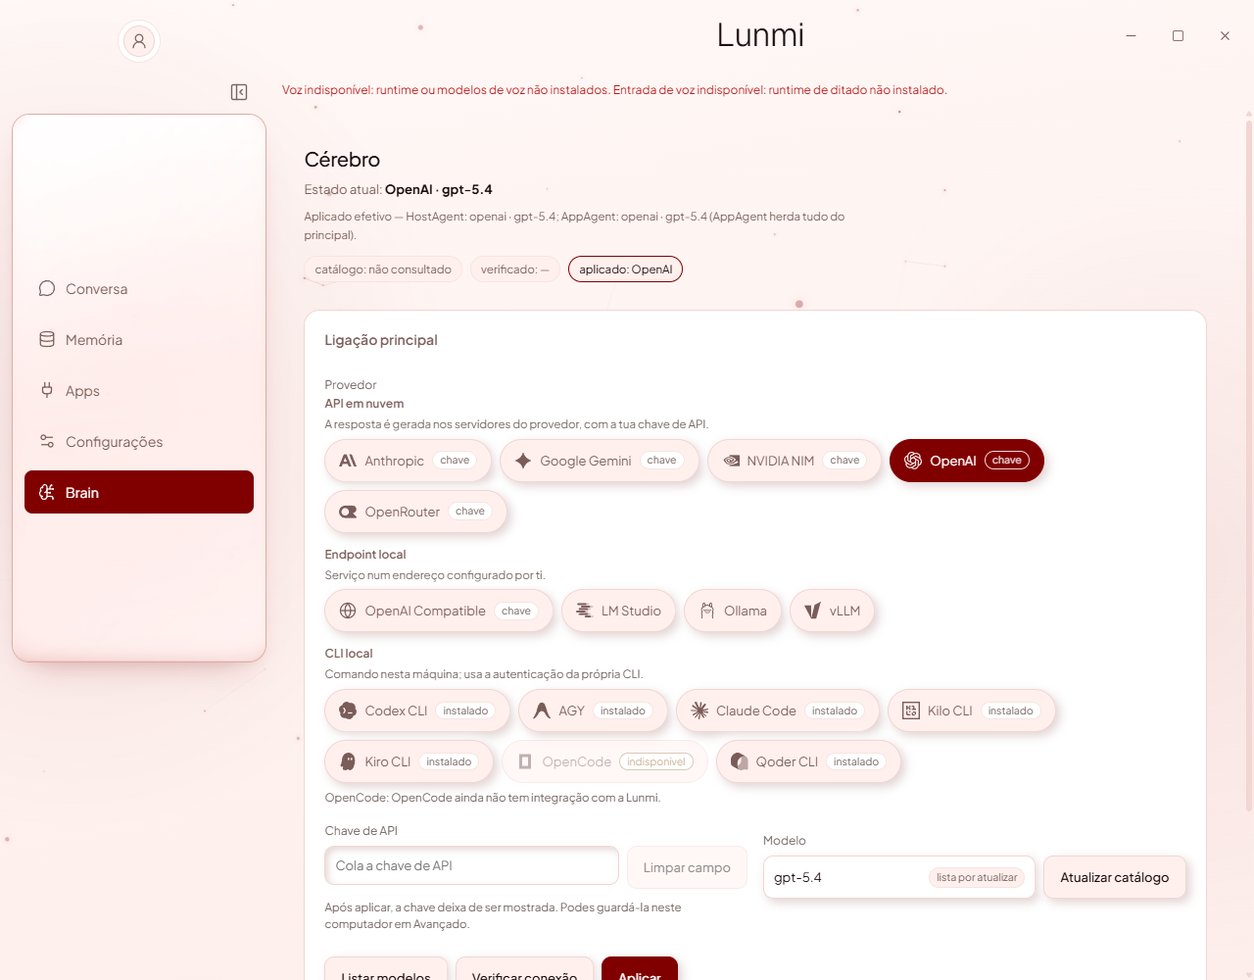
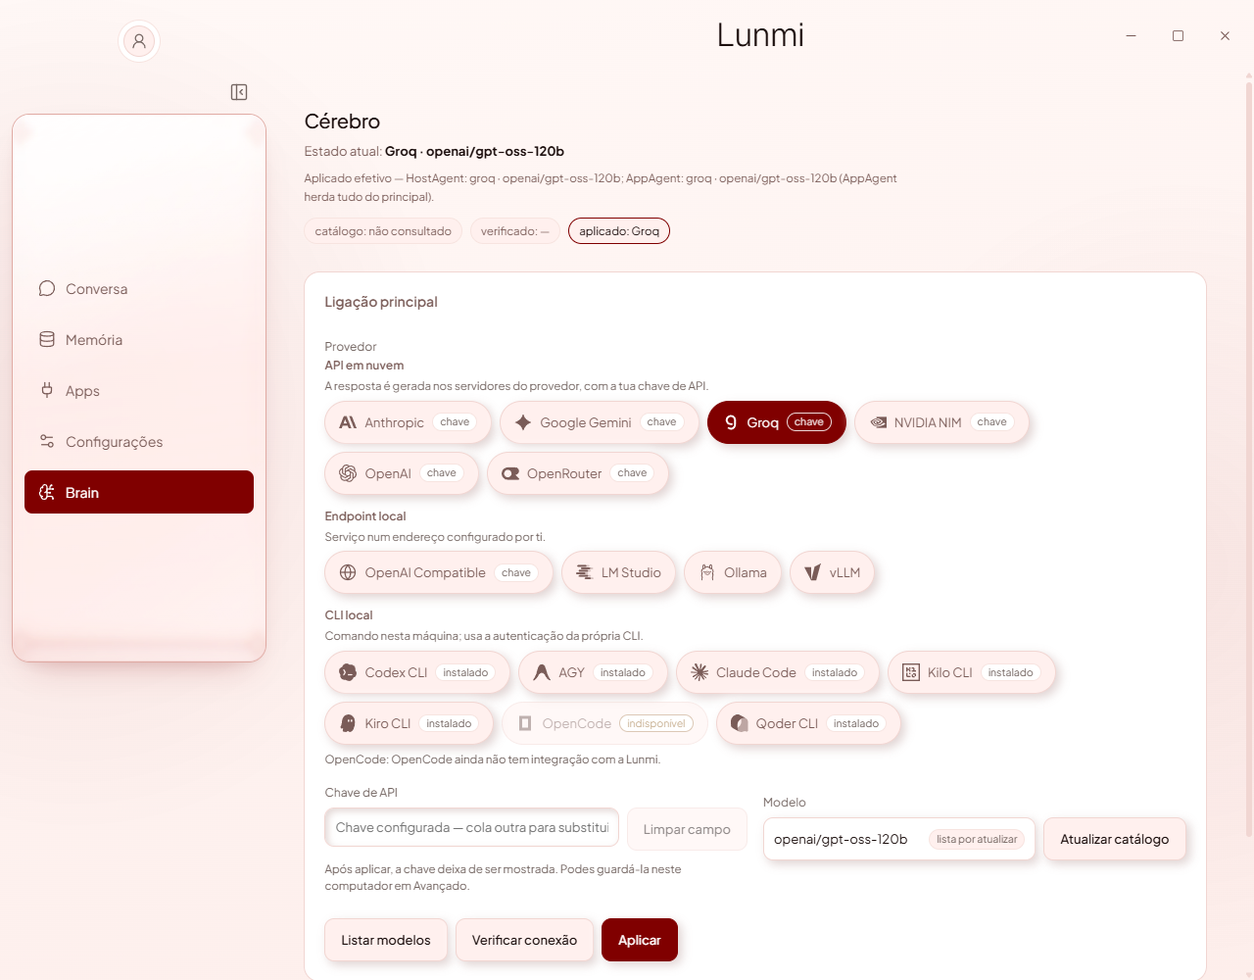
Rewrite README in plainer Portuguese and refresh screenshots
New captures come from the Alpha 6 app with local voice resources, so the
"voz indisponível" banner no longer shows; the Brain shot uses Groq, and an
onboarding shot joins the install steps. The text keeps every command, link
and limit but says each point once, in direct language.

diff --git a/README.md b/README.md
@@ -6,7 +6,7 @@
 
 **Converse, organize suas ideias e execute tarefas no Windows.**
 
-Um assistente de desktop com interface Electron, backend Python e automação assistida pelo Microsoft UFO².
+Assistente de desktop com interface Electron, backend Python e automação pelo Microsoft UFO².
 
 [![Windows](https://img.shields.io/badge/Windows-10%20%2F%2011-5161D8?style=flat-square)](#requisitos)
 [![Python](https://img.shields.io/badge/Python-3.11-3776AB?style=flat-square&logo=python&logoColor=white)](#começar)
@@ -20,54 +20,60 @@ Um assistente de desktop com interface Electron, backend Python e automação as
 </div>
 
 <p align="center">
-  <img src="docs/assets/lunmi-dark.png" width="1100" alt="Lunmi instalada no tema Celestial, com o orb e o ecrã inicial da conversa" />
+  <img src="docs/assets/lunmi-dark.png" width="1100" alt="Tela inicial da conversa da Lunmi no tema Celestial, com o orb" />
 </p>
 
-> **Alpha 6 disponível para testes.** Inclui introdução com Groq ou Kiro, pesquisa web que abre páginas, voz e ditado offline por CPU e atualizações pelo GitHub Releases, com verificação Ed25519 e confirmação antes de reiniciar para instalar. O setup ainda não tem certificado de editor Windows. A automação depende do aplicativo e da verificação disponível. Consulte [a Release](https://github.com/MateusCosta888/Lunmi/releases/tag/v0.1.0-alpha.6) e [os limites de segurança](SECURITY.md).
+> **Alpha 6 em teste.** Esta versão traz uma introdução que liga o Groq ou o Kiro, pesquisa web que lê as páginas, voz e ditado offline e atualização automática pelo GitHub Releases. O instalador ainda não tem certificado de editor do Windows, então o Windows pode avisar na primeira execução. Veja [a Release](https://github.com/MateusCosta888/Lunmi/releases/tag/v0.1.0-alpha.6) e [os limites de segurança](SECURITY.md).
 
 ## Instalar o Alpha 6
 
-1. Baixe o [instalador para Windows 10/11 x64](https://github.com/MateusCosta888/Lunmi/releases/download/v0.1.0-alpha.6/Lunmi-0.1.0-alpha.6-Setup.exe), com cerca de 2,08 GB. Inclui os modelos de voz; a instalação pode demorar vários minutos.
-2. Execute o setup e abra a Lunmi. O Python necessário acompanha o instalador; não precisa instalar Python, Node.js ou Git para usar esta versão.
-3. Na primeira abertura, a introdução ajuda a ligar o Groq (gratuito) ou o Kiro CLI. Em **Brain**, pode escolher outra API, endpoint ou CLI suportado com o seu próprio acesso. Créditos e chaves de IA não estão incluídos. O setup inclui voz e ditado por CPU, sem exigir NVIDIA; a ativação continua opcional.
+1. Baixe o [instalador para Windows 10/11 x64](https://github.com/MateusCosta888/Lunmi/releases/download/v0.1.0-alpha.6/Lunmi-0.1.0-alpha.6-Setup.exe) (cerca de 2,08 GB, com os modelos de voz). A instalação leva alguns minutos.
+2. Execute o instalador e abra a Lunmi. O Python vem junto; você não precisa instalar Python, Node.js nem Git.
+3. Na primeira abertura, a introdução ajuda a ligar um cérebro: o Groq, que é gratuito, ou o Kiro CLI. Depois, em **Brain**, você pode trocar para outra API, endpoint ou CLI com o seu próprio acesso. A Lunmi não inclui créditos nem chaves de IA.
 
-Quem usa o Alpha 3 precisa instalar o Alpha 6 manualmente uma vez. Quem tem o Alpha 4 ou o Alpha 5 recebe esta versão pelo atualizador; a primeira atualização para o Alpha 6 substitui todos os ficheiros e demora mais. Depois, a Lunmi procura novas versões e baixa em segundo plano, aproveitando blocos existentes quando possível. Em **Configurações → Atualizações**, pode procurar manualmente e escolher **Reiniciar e atualizar** quando estiver pronta. Tarefas e operações de voz ativas bloqueiam a instalação; histórico, memória e configurações continuam fora da pasta instalada.
+<p align="center">
+  <img src="docs/assets/lunmi-onboarding.png" width="900" alt="Tela de boas-vindas da introdução da Lunmi, com o botão Começar" />
+</p>
 
-As atualizações chegam quando publicamos uma **Release**. Um envio de código a `main` executa testes; a distribuição exige preparar e publicar uma versão. O modo `run.bat` continua sem auto-update. [Funcionamento, publicação e recuperação →](docs/UPDATES.md)
+Quem tem o Alpha 4 ou o Alpha 5 recebe esta versão pelo atualizador. A primeira atualização para o Alpha 6 troca todos os arquivos e demora mais; as seguintes trocam só o necessário. Quem usa o Alpha 3 precisa instalar o Alpha 6 manualmente uma vez.
+
+A Lunmi procura novas versões e baixa em segundo plano. Para instalar, vá em **Configurações → Atualizações** e escolha **Reiniciar e atualizar**. Uma tarefa ou a voz em andamento bloqueia a instalação. Histórico, memória e configurações ficam fora da pasta do programa e não se perdem.
+
+Uma versão nova só chega quando publicamos uma Release; enviar código para `main` apenas roda os testes. O modo `run.bat` não se atualiza sozinho. [Como funcionam as atualizações](docs/UPDATES.md)
 
 ## O que a Lunmi faz
 
-| Recurso | Comportamento |
+| Recurso | Como funciona |
 | --- | --- |
-| **Chat único** | Responde, pede esclarecimento ou utiliza ferramentas conforme o pedido, mantendo autorização e verificação no backend. |
-| **Resposta progressiva** | Mostra texto incremental nos transportes que oferecem streaming real. Transportes sem essa capacidade entregam a resposta completa. |
-| **Conversas guardadas** | Histórico local separado da memória pessoal; retomar, renomear, apagar e conversar temporariamente. |
-| **Pesquisa web** | Pesquisa configurável com fontes e metadados; disponibilidade e profundidade dependem do motor e do Brain. |
-| **Brain configurável** | Usa APIs, endpoints compatíveis e CLIs locais suportados. O catálogo depende do provedor conectado. |
-| **Memória local V2** | Documento editável com Guardar/Desfazer, aprendizagem opcional e gestão detalhada de episódios, propostas legadas e importação/exportação. |
-| **Gmail via Composio** | Liga a conta Composio do próprio utilizador para pesquisar, ler e preparar emails. Envio exige uma prévia com aprovação manual. Integração experimental. |
-| **Perfil local** | Nome de tratamento e foto, editáveis na própria janela. A foto não vai ao Brain. |
-| **Anexos de texto** | Até 4 arquivos UTF-8, 32 KiB por arquivo e 64 KiB no total; o turno com anexos não autoriza ações. |
-| **Controle do usuário** | Confirmações, perguntas, cancelamento e indicação de falhas fazem parte da execução. |
-| **Interface adaptável** | Temas Celestial, Claro suave e Red Velvet, laterais com vidro, navegação recolhível e compositor multilinha com seleção de modelo. |
-| **Lunmi Node** | Ao fechar a principal, pode continuar na bandeja com um Node num canto superior. Abre um mini chat sincronizado e mostra atividade/atenção. Fica passivo durante tarefas para não intercetar cliques. |
-| **Voz e ditado locais** | Recursos de voz e ditado por CPU incluídos no setup completo. Ativação opcional e microfone acionado pelo utilizador; sem escuta contínua. |
-| **GalaxyOrb** | Presença visual persistente na conversa principal, preservada quando chegam mensagens. |
-| **Atualizações pelo GitHub** | A partir do Alpha 4 instalado: download automático, verificação de assinatura e instalação após confirmação de reinício. |
+| Chat único | Responde, pergunta quando o pedido não está claro ou usa ferramentas. A autorização e a verificação ficam no backend. |
+| Resposta progressiva | O texto aparece aos poucos quando o provedor oferece streaming; nos outros, chega inteiro. |
+| Conversas salvas | Histórico local, separado da memória pessoal. Dá para retomar, renomear, apagar ou abrir uma conversa temporária. |
+| Pesquisa web | O cérebro decide quando pesquisar, lê as páginas e cita as fontes. Perguntas de continuação usam o contexto da conversa. |
+| Brain configurável | APIs, endpoints compatíveis e CLIs locais. Os modelos disponíveis dependem do provedor. |
+| Memória local | Um texto livre que você edita, com Salvar e Desfazer, aprendizado opcional e importação e exportação. |
+| Gmail via Composio | Pesquisa, lê e prepara emails com a sua conta Composio. Enviar exige aprovar uma prévia. Experimental. |
+| Perfil local | Nome e foto, editáveis na janela. A foto não vai para o Brain. |
+| Anexos de texto | Até 4 arquivos UTF-8, 32 KiB cada e 64 KiB no total. Um pedido com anexos não autoriza ações. |
+| Controle do usuário | Confirmações, perguntas, cancelamento e avisos de falha fazem parte de cada tarefa. |
+| Temas | Celestial, Claro suave e Red Velvet. A opção Reduzir animações fica em Configurações → Aparência. |
+| Lunmi Node | Ao fechar a janela principal, a Lunmi pode continuar na bandeja com um Node num canto da tela, com mini chat, estado das tarefas e controle de mídia do Windows (tocar, pausar, anterior, próxima). |
+| Voz e ditado locais | Voz e ditado pela CPU, incluídos no instalador. Ficam desligados até você ativar; o microfone só abre quando você pede. |
+| GalaxyOrb | O orb fica na conversa principal e continua lá quando chegam mensagens. |
+| Atualizações pelo GitHub | Desde o Alpha 4: download automático, verificação da assinatura e instalação quando você confirma. |
 
-A execução combina caminhos determinísticos para tarefas reconhecidas e agentes UFO² para as demais. Um despacho de ação não prova sucesso: confira o resultado e a evidência apresentados.
+Tarefas conhecidas seguem caminhos fixos; as outras passam pelos agentes do UFO². Uma ação enviada não prova que deu certo: confira o resultado e a evidência que a Lunmi mostra.
 
 ## Requisitos
 
-Os requisitos abaixo são para executar pelo código-fonte. O instalador alpha inclui o runtime Python e as dependências; cada testador configura o seu próprio Brain.
+Para usar o instalador, basta o Windows. Os requisitos abaixo são para rodar pelo código-fonte:
 
-- **Windows 10 ou 11**, com a sessão de desktop aberta e desbloqueada.
-- **Python 3.11**, com Tkinter para o frontend legado opcional.
-- **Node.js 24 LTS**, npm e Git disponíveis no terminal.
-- Internet na instalação para baixar dependências e a revisão fixada do UFO².
-- Um provedor de IA para os fluxos com inferência. Endpoints locais e CLIs precisam estar instalados/configurados separadamente.
+- Windows 10 ou 11, com a sessão aberta e desbloqueada.
+- Python 3.11 (com Tkinter, se quiser a interface antiga).
+- Node.js 24 LTS, npm e Git no terminal.
+- Internet na instalação, para baixar as dependências e a versão fixa do UFO².
+- Um provedor de IA. Endpoints locais e CLIs precisam ser instalados e configurados à parte.
 
-Custos, limites e disponibilidade pertencem ao provedor escolhido. A Lunmi não inclui créditos nem chaves de API.
+Custos, limites e disponibilidade são do provedor que você escolher.
 
 ## Começar
 
@@ -89,68 +95,62 @@ cd ..
 .\run.bat
 ```
 
-No Windows, o build prepara um runtime local `desktop/.runtime/Lunmi.exe`, com nome e ícone da Lunmi. Ele é iniciado por `run.bat` e não modifica o Electron instalado. Esse runtime depende deste checkout; não é um instalador ou executável portátil independente.
+O build cria `desktop/.runtime/Lunmi.exe`, com o nome e o ícone da Lunmi, que o `run.bat` abre. Ele depende deste checkout e não mexe no Electron instalado; não é um instalador nem um executável portátil.
 
-`install_ufo.py` baixa e confere a revisão registrada em [`ufo.lock.json`](ufo.lock.json). `vendor/` é local e não faz parte deste repositório. O launcher também verifica esse checkout antes de abrir o app.
+`install_ufo.py` baixa e confere a versão registrada em [`ufo.lock.json`](ufo.lock.json). A pasta `vendor/` é local e fica fora do repositório. O launcher confere essa pasta antes de abrir o app.
 
-Em **Brain**, escolha o provedor e configure credenciais ou endpoint. Quando disponível, o catálogo de modelos aparece no seletor da própria barra de conversa.
+Em **Brain**, escolha o provedor e informe a chave ou o endpoint. Quando o provedor tem catálogo, os modelos aparecem no seletor da barra de conversa.
 
-Para configuração por ambiente, copie [`.env.example`](.env.example) para `.env`. O arquivo real é local e ignorado pelo Git. Valores explícitos do ambiente têm prioridade sobre os da interface.
+Para configurar por variáveis de ambiente, copie [`.env.example`](.env.example) para `.env`. Esse arquivo é ignorado pelo Git, e os valores dele têm prioridade sobre os da interface.
 
-[Guia de instalação e solução de problemas →](docs/GETTING_STARTED.md)
+[Guia de instalação e solução de problemas](docs/GETTING_STARTED.md)
 
-## Um chat, autorização explícita
+## Um chat só, com autorização explícita
 
-Na interface atual não é preciso escolher Conversar ou Executar. Uma pergunta como "Como apago uma pasta?" deve produzir uma explicação; um pedido direto de operação pode utilizar ferramentas. Pedidos ambíguos exigem esclarecimento. Os modos legados continuam no protocolo para compatibilidade.
+Você não precisa escolher entre conversar e executar. "Como apago uma pasta?" recebe uma explicação; "apaga a pasta X" pode usar ferramentas. Se o pedido for ambíguo, a Lunmi pergunta antes.
 
-- Comece com uma tarefa pequena e arquivos próprios de teste.
-- Leia os pedidos de confirmação antes de aceitar.
-- **Parar** solicita o cancelamento da tarefa atual.
-- Reiniciar um backend falhado não repete automaticamente a instrução anterior.
-- A Autoaprovação mantém o comportamento existente: a alteração se destina à próxima tarefa, sem trocar a política de uma tarefa em andamento.
-- O envio de email exige aprovação manual da prévia, mesmo com Autoaprovação ligada. Um resultado incerto não é repetido automaticamente; aceitação pelo Gmail não comprova entrega ao destinatário.
+- Comece com tarefas pequenas e arquivos de teste.
+- Leia cada pedido de confirmação antes de aceitar.
+- **Parar** cancela a tarefa atual.
+- Se o backend reiniciar depois de uma falha, a última instrução não é repetida.
+- Mudar a Autoaprovação vale a partir da próxima tarefa.
+- Enviar email sempre pede aprovação da prévia, mesmo com Autoaprovação ligada. Um envio com resultado incerto não é repetido, e o Gmail aceitar a mensagem não garante que ela chegou.
 
-O painel de tarefas recentes mostra a sessão atual. O histórico sob **Conversa** guarda as
-novas conversas neste computador, permite continuá-las e oferece conversas temporárias.
-Em Configurações, pode desativar a gravação e escolher entre retomar a última conversa ou
-começar uma nova. Apagar histórico não apaga factos da memória pessoal.
+O histórico em **Conversa** guarda as conversas neste computador. Em Configurações, você pode desligar a gravação e escolher se a Lunmi abre a última conversa ou uma nova. Apagar o histórico não apaga a memória pessoal.
 
-Em **Configurações → Segundo plano**, escolha se fechar a janela mantém a Lunmi em execução. O Node tem opções de canto, visibilidade, recolhimento, atividade e atalho. **Sair** na bandeja termina a aplicação. O mini chat partilha a conversa atual; confirmações sensíveis são abertas na principal. Durante uma tarefa em execução, o Node não aceita interação nem rouba o foco; use a bandeja para restaurar a principal se precisar intervir.
+Em **Configurações → Segundo plano**, você escolhe se fechar a janela mantém a Lunmi aberta, e ajusta o canto, a visibilidade e o atalho do Node. **Sair**, na bandeja, fecha o programa. O mini chat usa a mesma conversa da janela principal, e confirmações sensíveis abrem na principal. Enquanto uma tarefa roda, o Node não aceita cliques nem rouba o foco; use a bandeja para voltar à janela principal.
 
-A saída de voz e o ditado são opcionais e experimentais. O checkout não inclui os modelos
-nem instala um runtime de áudio automaticamente. Sem esses recursos, a interface indica
-indisponibilidade e o chat continua a funcionar. O microfone é acionado pelo utilizador;
-não há escuta contínua. Veja [os limites da voz e do modo residente](docs/GETTING_STARTED.md#node-e-segundo-plano).
+Voz e ditado são opcionais e experimentais. Pelo código-fonte, os modelos e o runtime de áudio não vêm junto; sem eles, a interface avisa que a voz está indisponível e o chat funciona normalmente. [Limites da voz e do segundo plano](docs/GETTING_STARTED.md#node-e-segundo-plano)
 
 ## Memória e privacidade
 
-As memórias ficam em SQLite local. O painel apresenta um documento de texto livre: **O que a Lunmi deve saber sobre ti**. É possível editar e guardar, pedir para lembrar algo no chat e permitir aprendizagem de declarações claras em conversas. As opções **Usar memória** e **Aprender com as conversas** controlam esse comportamento. Propostas legadas continuam sujeitas a aceite; episódios e o histórico legado da memória têm opções próprias. O histórico do chat é separado e começa ativado para novas conversas.
+A memória fica num banco SQLite no seu computador. No painel, ela aparece como um texto livre, **O que a Lunmi deve saber sobre ti**, que você edita e salva. Você também pode pedir no chat para a Lunmi lembrar algo. As opções **Usar memória** e **Aprender com as conversas** controlam o que entra. O histórico do chat é separado e vem ligado para conversas novas.
 
-**Memória local não significa inferência privada.** Instruções, contexto recuperado e observações necessárias à execução podem ser enviados ao provedor escolhido. Um endpoint local e uma API externa têm fronteiras de privacidade diferentes.
+A memória ser local não torna a inferência privada. Instruções, trechos de memória e observações da tarefa podem ir para o provedor que você escolheu, e um endpoint local tem limites de privacidade diferentes de uma API externa.
 
-Chaves lembradas pela interface usam DPAPI do Windows. O repositório não contém banco pessoal, credenciais, logs de execução ou exportações de memória.
+As chaves salvas pela interface usam a proteção DPAPI do Windows. O repositório não tem banco pessoal, credenciais, logs nem exportações de memória.
 
-[Memória: uso e limites →](docs/MEMORY.md) · [Segurança e dados locais →](SECURITY.md)
+[Memória: uso e limites](docs/MEMORY.md) · [Segurança e dados locais](SECURITY.md)
 
-## A interface atual
+## A interface
 
-### Brain no Red Velvet
+### Brain no tema Red Velvet
 
-Provedores aparecem em botões com as suas marcas, separados entre APIs, endpoints e CLIs. O campo de chave aparece apenas quando o provedor selecionado precisa dele. Disponibilidade e autenticação dependem da instalação de cada utilizador.
-
-<p align="center">
-  <img src="docs/assets/lunmi-brain.png" width="1100" alt="Seletor de provedores do Brain no tema Red Velvet, com botões por API, endpoint e CLI e configuração de chave" />
-</p>
-
-### Memória no Claro suave
-
-O documento de memória pode ser editado e guardado no próprio painel. Troque o tema em **Configurações → Aparência**, sem reiniciar ou apagar o rascunho; a escolha é lembrada na próxima abertura.
+Os provedores aparecem como botões com as suas marcas, separados em APIs, endpoints locais e CLIs. O campo de chave só aparece quando o provedor precisa de uma. O que está disponível depende do que você instalou.
 
 <p align="center">
-  <img src="docs/assets/lunmi-light.png" width="1100" alt="Editor de memória da Lunmi Alpha 4 no tema Claro suave, com perfil fictício de demonstração" />
+  <img src="docs/assets/lunmi-brain.png" width="1100" alt="Painel Brain no tema Red Velvet com o Groq selecionado e os botões de API, endpoint e CLI" />
 </p>
 
-As capturas mostram a interface real do Alpha 4, com conversas e perfil fictícios preparados para demonstração, sem dados pessoais ou credenciais. O texto do chat não é prova de inferência ou de ações executadas. Modelos, CLIs e integrações não são fornecidos nem autenticados por estas imagens.
+### Memória no tema Claro suave
+
+O texto da memória é editado e salvo no próprio painel. O tema muda em **Configurações → Aparência**, na hora, sem perder o que você estava escrevendo.
+
+<p align="center">
+  <img src="docs/assets/lunmi-light.png" width="1100" alt="Editor de memória no tema Claro suave com um perfil de demonstração" />
+</p>
+
+As imagens mostram a interface do Alpha 6 com um perfil de demonstração, sem dados pessoais nem credenciais.
 
 ## Estrutura
 
@@ -175,11 +175,9 @@ tests/          Regressões do backend
 benchmarks/     Ferramentas locais de medição
 ```
 
-[Índice dos guias →](docs/README.md)
+[Índice dos guias](docs/README.md) · [Como as partes se conectam](docs/ARCHITECTURE.md)
 
-Na cópia completa de trabalho, `docs/LOCAL-INDEX.md` organiza os relatórios por assunto, planos, investigação e evidências. `docs/reports/`, `docs/plans/`, `logs/`, `output/`, `research/` e `Relatorio Final/` conservam o histórico local; esses materiais não são publicados em bloco no repositório. `docs/MAPA-DE-CAMINHOS.tsv` regista a localização anterior e atual dos ficheiros reorganizados.
-
-[Como as partes se conectam →](docs/ARCHITECTURE.md)
+Na cópia de trabalho completa, `docs/LOCAL-INDEX.md` organiza relatórios, planos e evidências por assunto. As pastas `docs/reports/`, `docs/plans/`, `logs/`, `output/`, `research/` e `Relatorio Final/` guardam esse histórico localmente e não vão para o repositório. `docs/MAPA-DE-CAMINHOS.tsv` registra onde cada arquivo reorganizado estava e onde está.
 
 ## Desenvolvimento
 
@@ -195,19 +193,19 @@ npm test
 npm run build
 ```
 
-Os testes usam fixtures e sandboxes; não certificam qualquer aplicativo externo. Inferência real e controle do desktop exigem ambiente próprio e consentimento para seus efeitos. O frontend Tkinter continua disponível com `run.bat --tk` ou `run-tk.bat`.
+Os testes usam fixtures e sandboxes e não validam aplicativos externos. Testar inferência real ou controle do desktop exige um ambiente próprio e o seu consentimento para os efeitos. A interface Tkinter antiga abre com `run.bat --tk` ou `run-tk.bat`.
 
 ## Limites atuais
 
-- Automação depende do que os aplicativos expõem por UIA/Win32 e da verificação disponível.
-- Anexos aceitam texto/código UTF-8. Imagens, PDF e binários são recusados; anexos e respostas desse turno não viram memória automática.
-- Streaming depende da capacidade do transporte. Voz e ditado requerem runtimes externos preparados; pesquisa web não equivale a controlo completo de um navegador.
-- Gmail é experimental: a ligação e a leitura reais foram exercitadas numa conta de testes; o diálogo e as confirmações de envio foram testados com simulações. Envio/entrega reais, todos os formatos MIME e todas as combinações de modelos não estão certificados. Cada utilizador usa a sua conta Composio e Gmail; os limites desses serviços continuam a aplicar-se.
-- A distribuição está em alpha Windows x64, com atualizador desde o Alpha 4 e sem certificado Authenticode. As atualizações exigem assinatura Ed25519 válida. Outra máquina/VM e todas as combinações de provedores ainda precisam de validação; não há suporte a macOS/Linux ou certificação geral de múltiplos monitores e DPIs.
-- Há dependências upstream legadas; avisos conhecidos e triagem estão em [Segurança](SECURITY.md#dependências-upstream).
+- A automação depende do que cada aplicativo expõe por UIA/Win32 e do que dá para verificar.
+- Anexos aceitam só texto e código UTF-8. Imagens, PDF e binários são recusados, e nada desse turno vira memória automaticamente.
+- A pesquisa web lê páginas, mas não controla um navegador por completo. No Groq gratuito, o limite diário de tokens dá para cerca de 60 a 80 pesquisas por dia.
+- O Gmail é experimental: a conexão e a leitura foram testadas numa conta de testes, e o envio só com simulações. Cada pessoa usa a própria conta Composio e Gmail, com os limites desses serviços.
+- A distribuição é alpha, só Windows x64, sem certificado Authenticode. As atualizações exigem assinatura Ed25519 válida. Faltam testes em outras máquinas, com todos os provedores e com vários monitores e escalas; não há versão para macOS ou Linux.
+- Algumas dependências upstream são antigas; os avisos conhecidos estão em [Segurança](SECURITY.md#dependências-upstream).
 
 ## Créditos e licenças
 
-A Lunmi integra [Microsoft UFO²](https://github.com/microsoft/UFO), Electron, React e outros projetos. Avisos de fontes, ícones e referências visuais: [THIRD_PARTY_NOTICES.md](THIRD_PARTY_NOTICES.md).
+A Lunmi usa [Microsoft UFO²](https://github.com/microsoft/UFO), Electron, React e outros projetos. Avisos de fontes, ícones e referências visuais estão em [THIRD_PARTY_NOTICES.md](THIRD_PARTY_NOTICES.md).
 
-Uma licença geral para o código próprio da Lunmi ainda não foi definida. Não presuma que permissões de uma dependência se estendam ao projeto inteiro; os avisos e restrições de terceiros continuam aplicáveis.
+O código próprio da Lunmi ainda não tem licença definida. A licença de uma dependência não vale para o projeto inteiro, e os avisos e restrições de terceiros continuam valendo.
